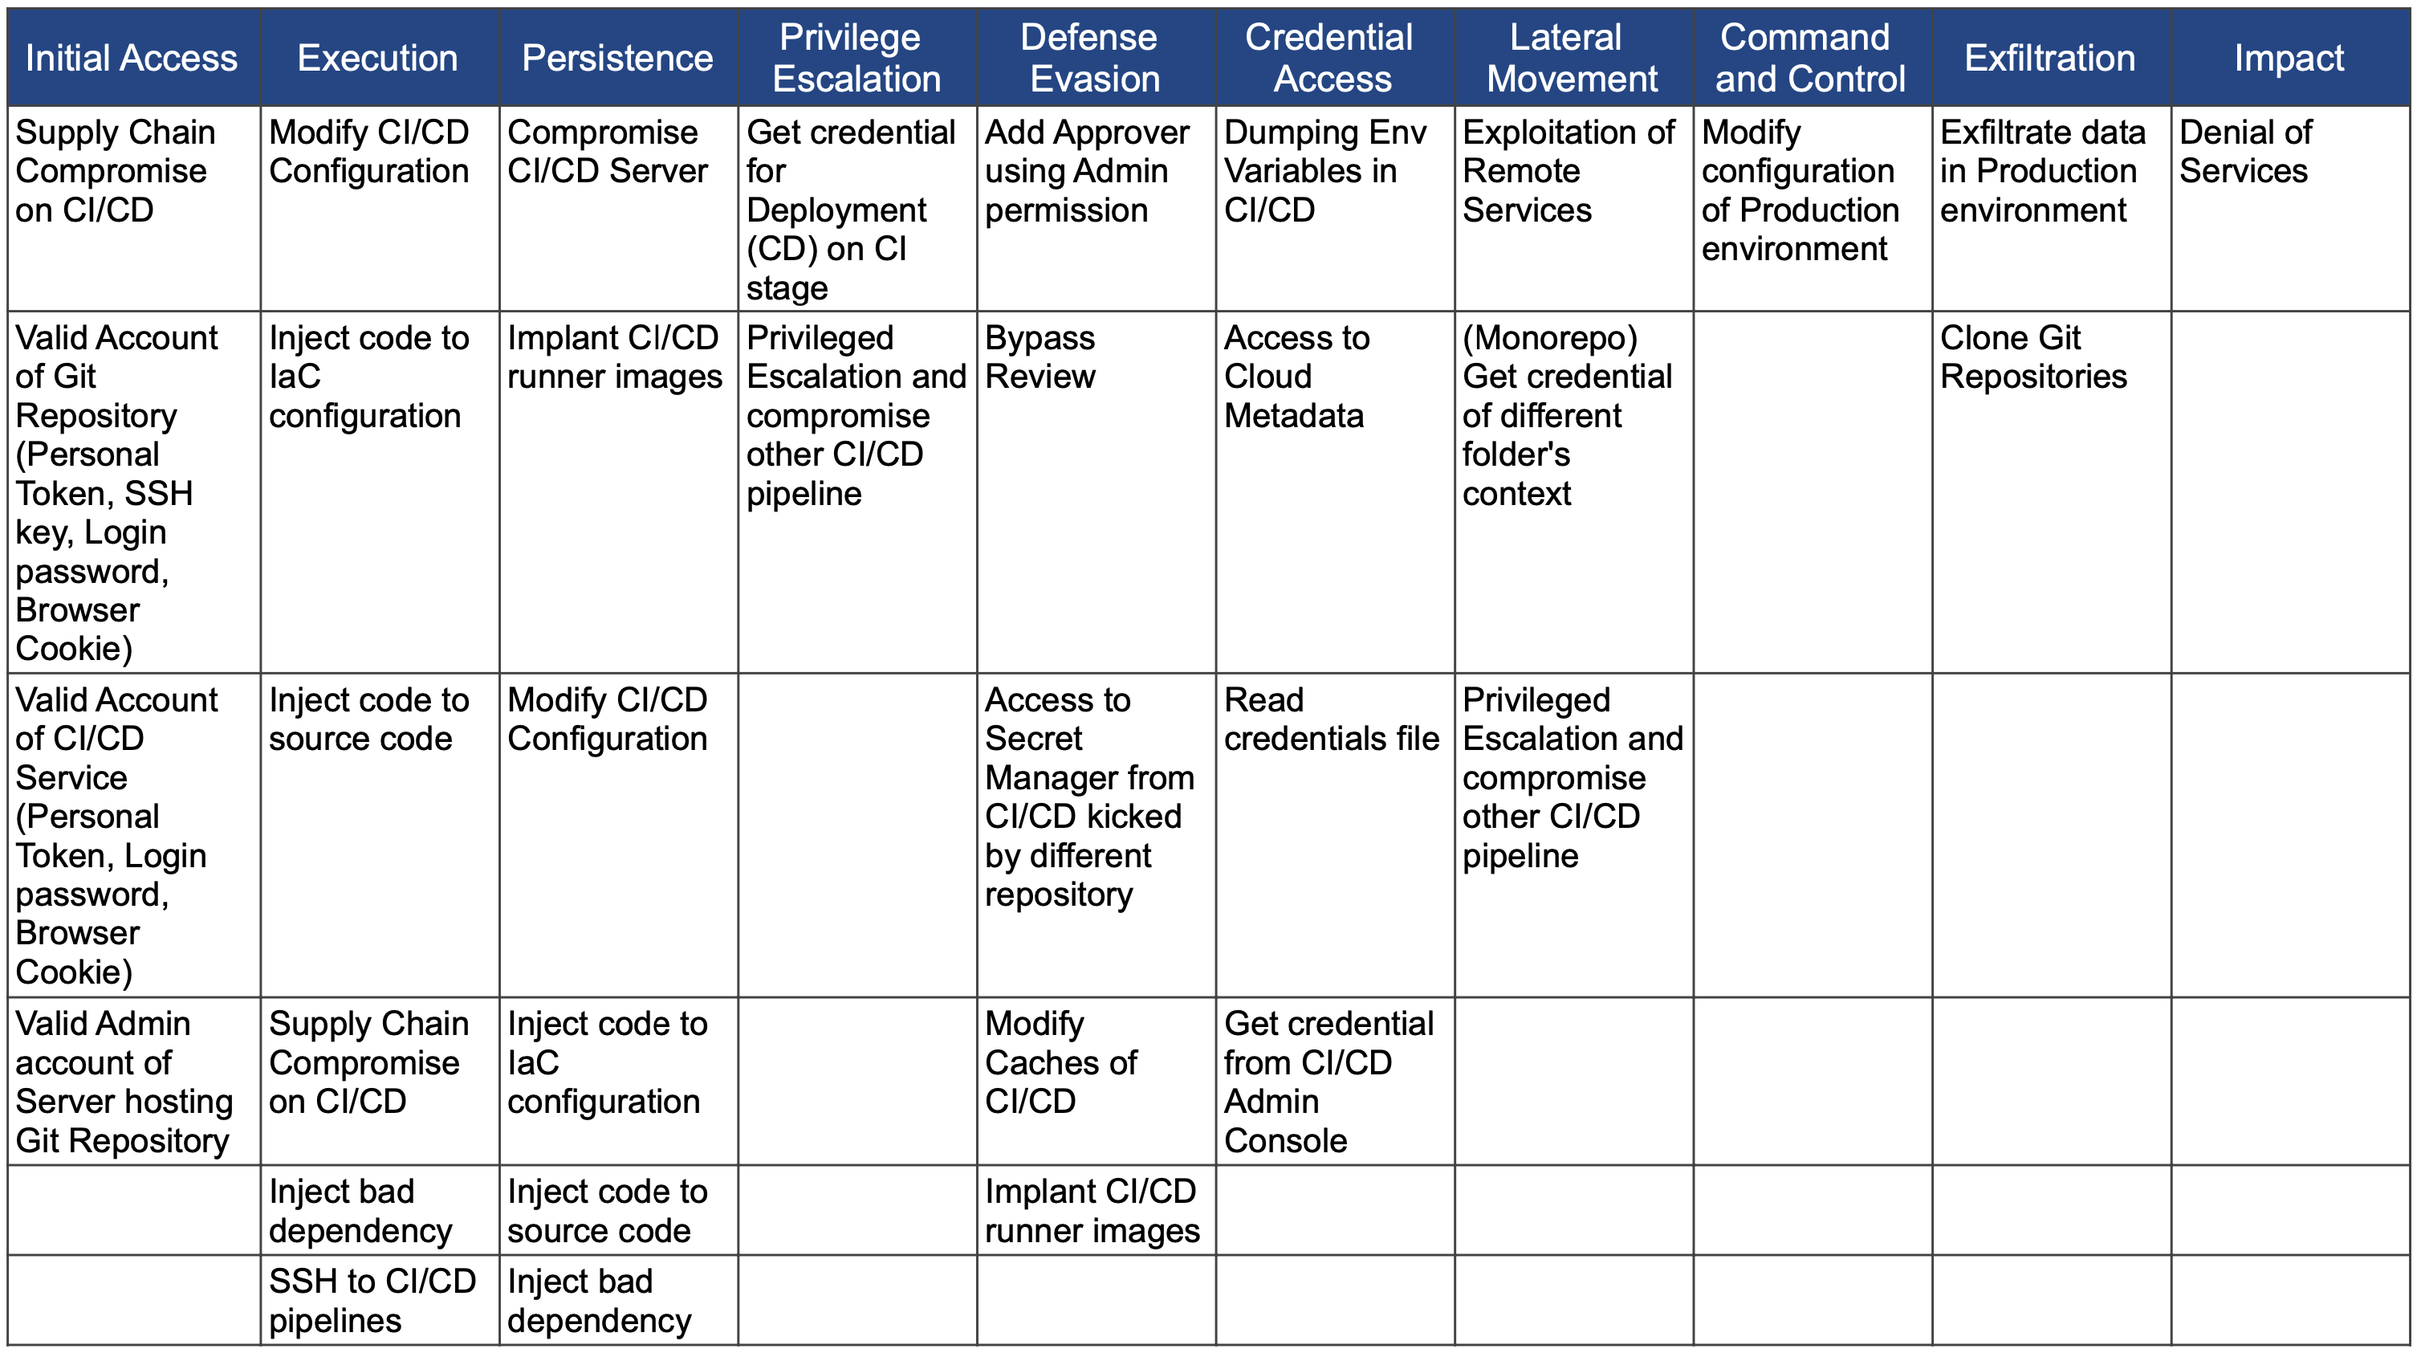
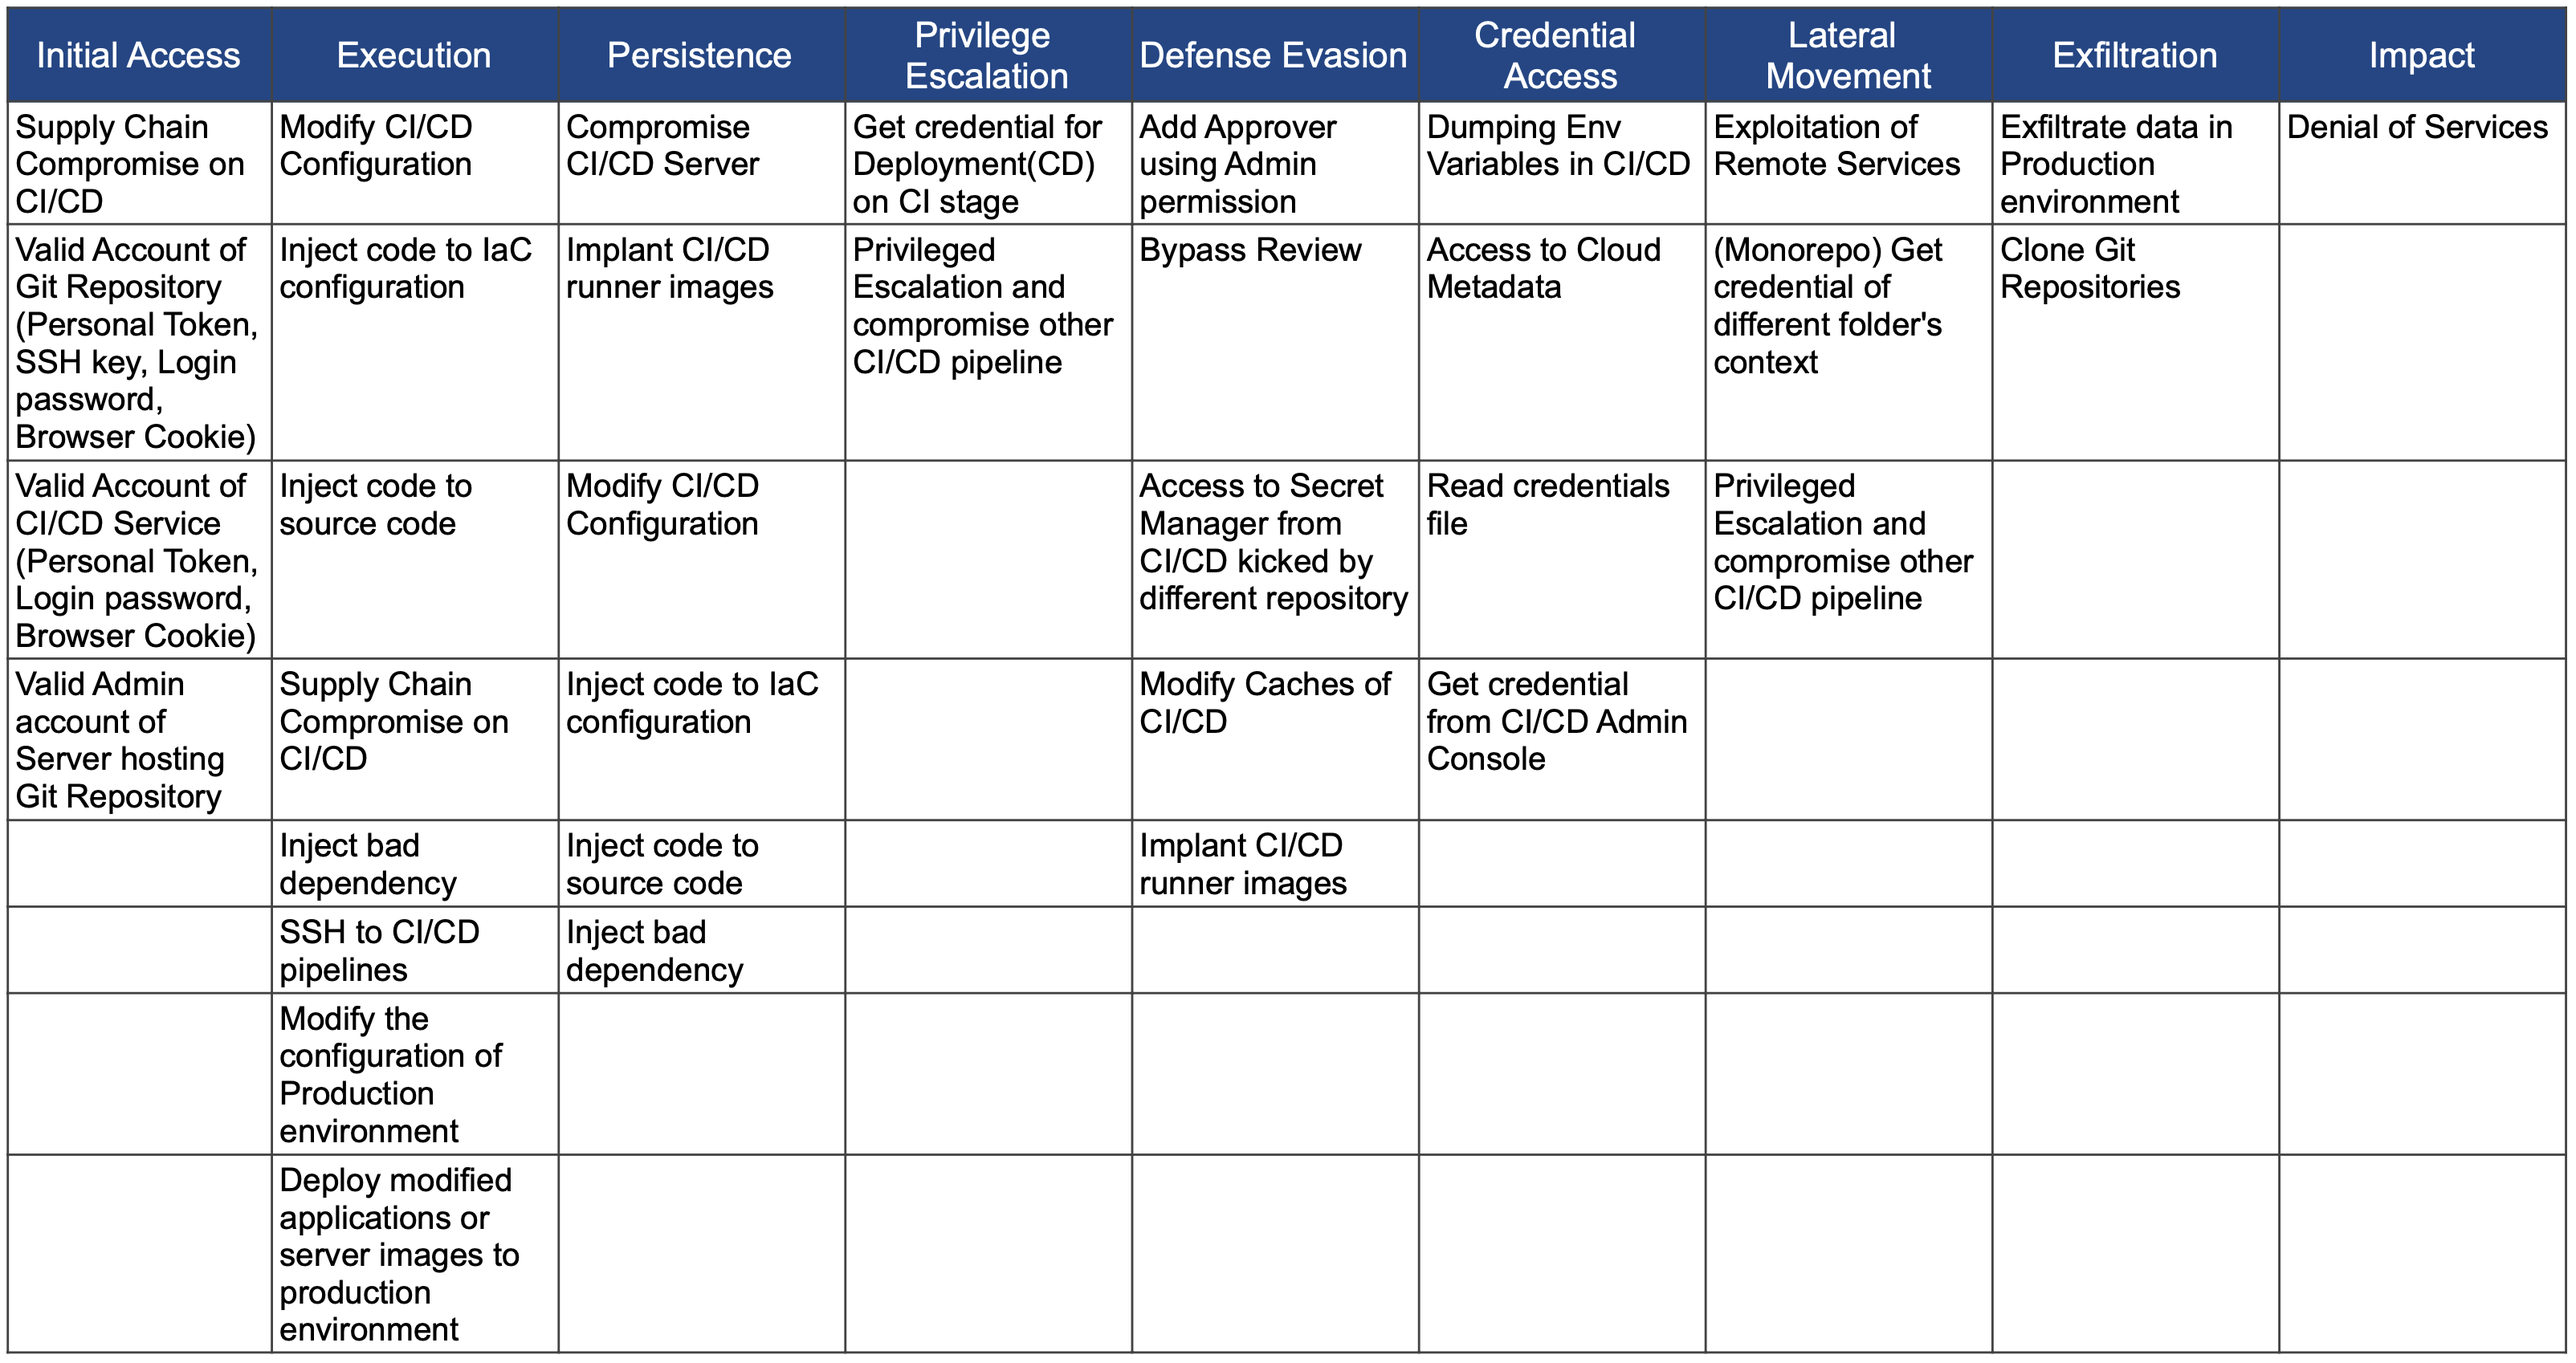
Move items from c2 to execution

diff --git a/README.md b/README.md
@@ -11,12 +11,13 @@ To map the threat of CI/CD Pipeline, I use the same classification as the framew
 - [Techniques and Mitigation](#techniques-and-mitigation)
     - [Initial Access](#initial-access)
     - [Execution](#execution)
+    - [Execution (Production)](#execution-production)
     - [Persistence](#persistence)
     - [Privilege Escalation](#privilege-escalation)
     - [Defense Evasion](#defense-evasion)
     - [Credential Access](#credential-access)
     - [Lateral Movement](#lateral-movement)
-    - [Command and Control/Exfiltration](#command-and-controlexfiltration)
+    - [Exfiltration](#exfiltration)
     - [Impact](#impact)
 - [Common Question](#common-question)
     - [Supply-chain attacks are the only risk of CI/CD pipeline, correct?](#supply-chain-attacks-are-the-only-risk-of-cicd-pipeline-correct)
@@ -258,6 +259,70 @@ File inclusion: file Function
 <li>(CI, CD) Implement strict access control to CI/CD pipeline servers
 
 <li>(CI, CD) Disallow SSH access
+</li>
+</ol>
+   </td>
+  </tr>
+</table>
+
+### Execution (Production)
+
+
+<table>
+  <tr>
+   <td>Techniques
+   </td>
+   <td>Description
+   </td>
+   <td>Mitigation
+   </td>
+  </tr>
+  <tr>
+   <td>Modify the configuration of Production environment
+   </td>
+   <td>Modify the configuration of Production environment via stolen credentials
+   </td>
+   <td>
+<ol>
+
+<li>(Secret Manager) Rorate credentials regularly or issue temporary tokens only
+
+<li>(Production environment) Network Restriction to Cloud API
+
+<li>(Production environment) Enable Audit Logging
+
+<li>(Production environment) Security Monitoring of data access
+
+<li>(Production environment) Enforce principle of least privilege to issued credentials
+
+<li>(Production environment) Rate limiting
+</li>
+</ol>
+   </td>
+  </tr>
+  <tr>
+   <td>Deploy modified applications or server images to production environment
+   </td>
+   <td>Deploy modified applications or server images (e.g. container image, function, VM image) to production environment via stolen credentials
+   </td>
+   <td>
+<ol>
+
+<li>(Secret Manager) Rorate credentials regularly or issue temporary tokens only
+
+<li>(Git Repository) Require multi-party approval(peer review)
+
+<li>(Production environment) Verify signature of artifacts
+
+<li>(Production environment) Network Restriction to Cloud API
+
+<li>(Production environment) Enable Audit Logging
+
+<li>(Production environment) Security Monitoring of deployment
+
+<li>(Production environment) Enforce principle of least privilege to issued credentials
+
+<li>(Production environment) Rate limiting
 </li>
 </ol>
    </td>
@@ -636,7 +701,7 @@ Need to set access controls carefully
 
 
 
-### Command and Control/Exfiltration
+### Exfiltration
 
 
 <table>
@@ -646,29 +711,6 @@ Need to set access controls carefully
    <td>Description
    </td>
    <td>Mitigation
-   </td>
-  </tr>
-  <tr>
-   <td>Modify the configuration of Production environment
-   </td>
-   <td>Modify the configuration of Production environment via stolen credentials
-   </td>
-   <td>
-<ol>
-
-<li>(Secret Manager) Rorate credentials regularly or issue temporary tokens only
-
-<li>(Production environment) Network Restriction to Cloud API
-
-<li>(Production environment) Enable Audit Logging
-
-<li>(Production environment) Security Monitoring of data access
-
-<li>(Production environment) Enforce principle of least privilege to issued credentials
-
-<li>(Production environment) Rate limiting
-</li>
-</ol>
    </td>
   </tr>
   <tr>
@@ -753,3 +795,4 @@ Need to set access controls carefully
 ### Supply-chain attacks are the only risk of CI/CD pipeline, correct?
 
 Supply-chain attacks are one of the most serious risks. But it is not the only risk for CI/CD Pipelines. The entire attack surface need to be considered. You can check my slide: “[Attacking and Securing CI/CD Pipeline](https://speakerdeck.com/rung/cd-pipeline)” to know risks of CI/CD pipeline
+
